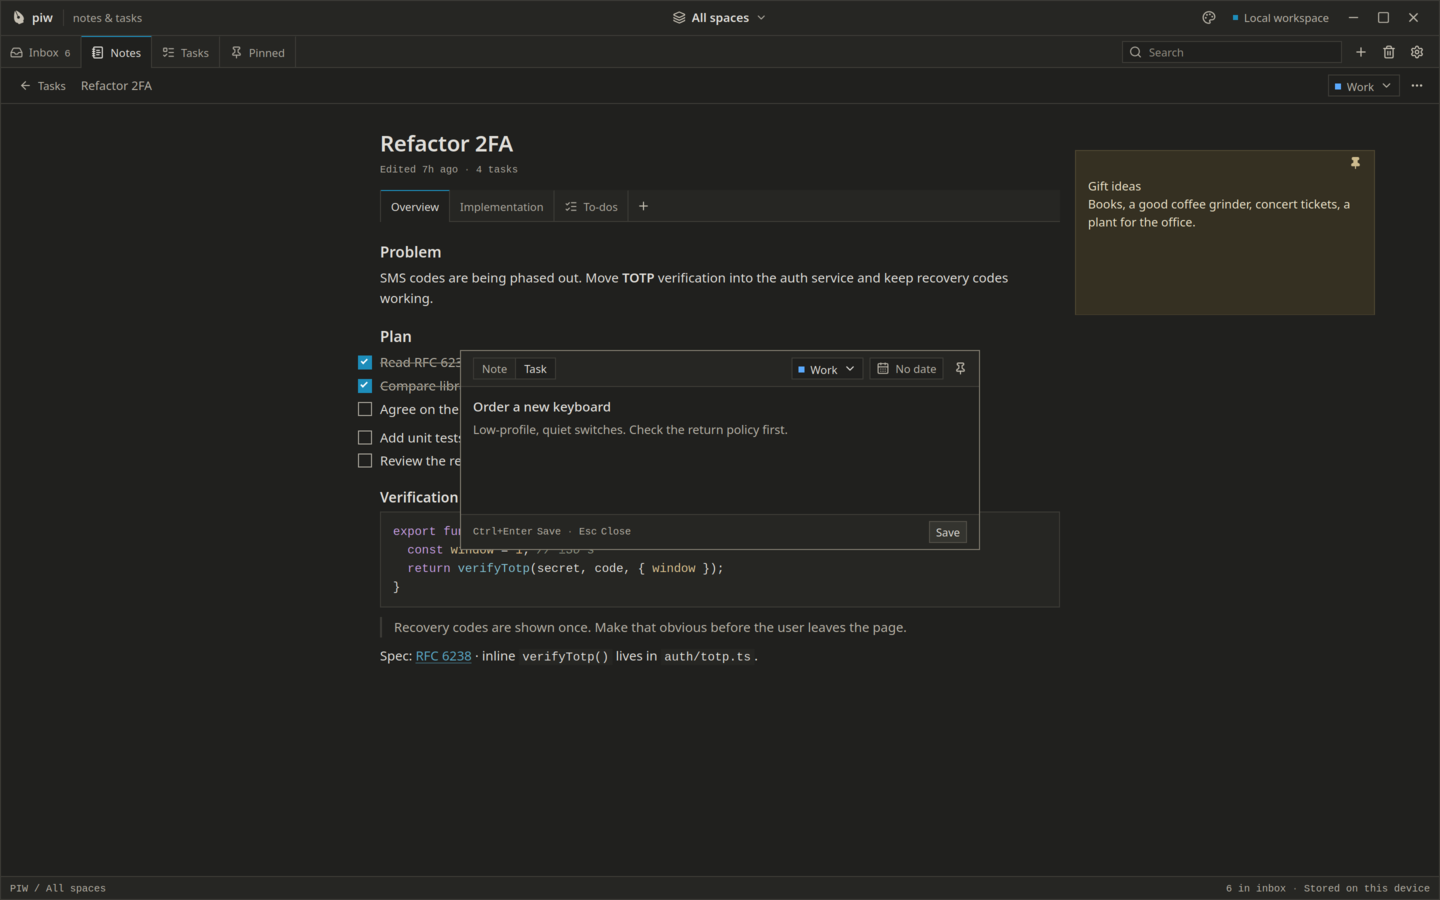
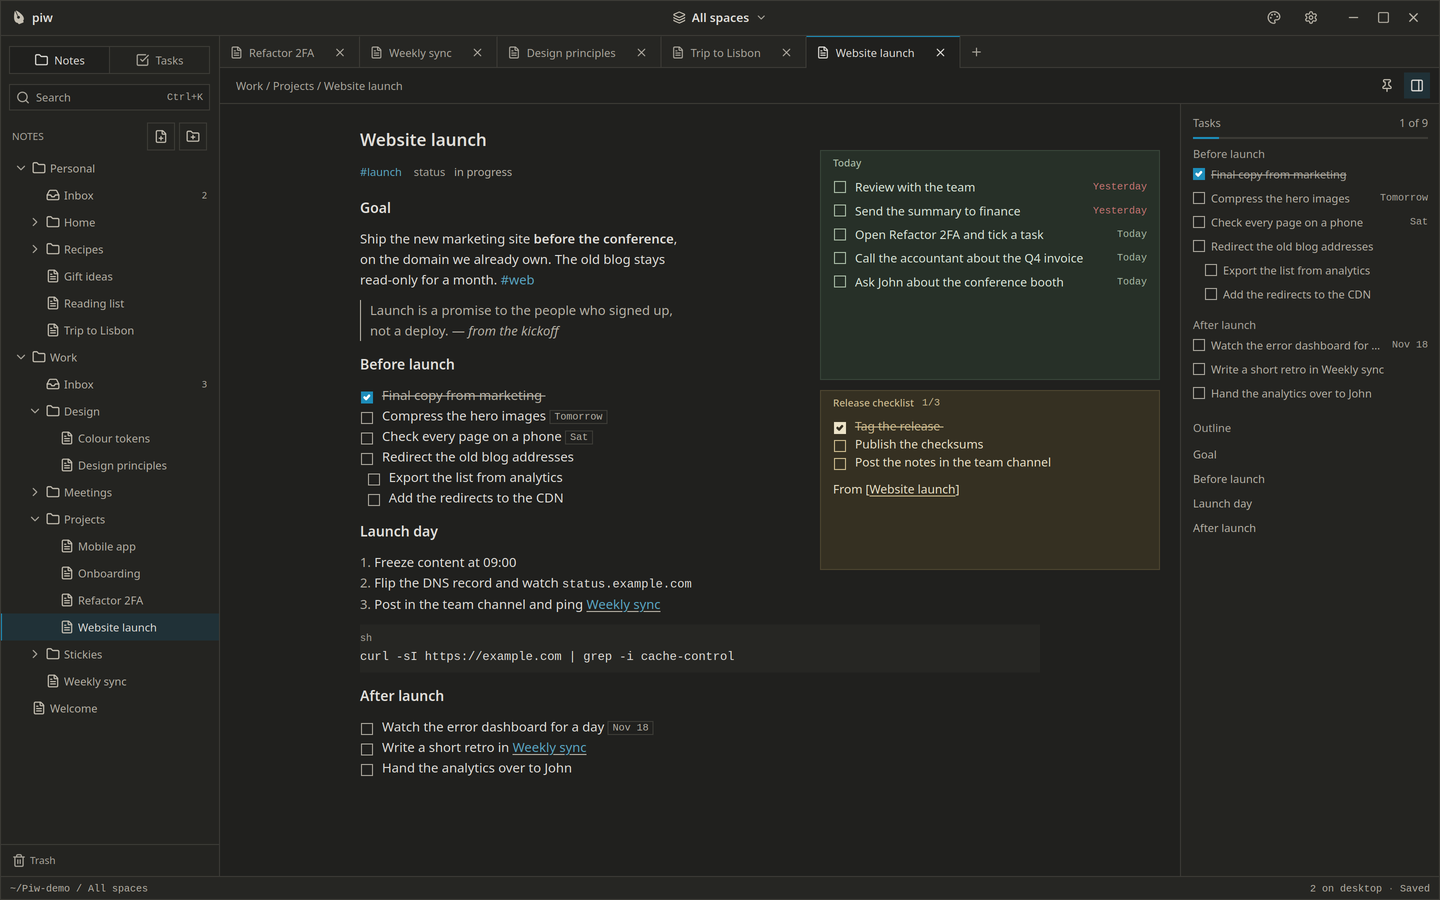
chore: improve product descriptions and features from piw

diff --git a/src/data/product-details.ts b/src/data/product-details.ts
@@ -173,85 +173,89 @@ export const productDetails: Record<'zap' | 'bud' | 'piw', ProductDetails> = {
   },
   piw: {
     summary:
-      'A local desktop workspace for notes, documents, and tasks, backed by one SQLite database. Quick Capture and sticky windows share the same records as the main workspace.',
+      'A local desktop app for notes and tasks, kept as plain Markdown files in a folder you choose. Quick Capture and sticky notes work on the same files as the main window.',
     features: [
       {
-        title: 'Quick Capture and notes',
-        description: 'Capture a note or task from another app with a global shortcut, tray action, or CLI flag.',
+        title: 'A vault of Markdown notes',
+        description: 'Notes are .md files in your vault: ~/Piw by default, or any folder you pick in Settings → Data.',
         capabilities: [
-          'The popup closes only after saving succeeds; capture drafts persist across accidental closes.',
-          'Write Markdown-friendly notes, use a split list/editor layout, add tags, and archive finished notes.',
-          'The --quick-note and --quick-task flags open capture in the already running app.'
+          'Edit the files in any other app; Piw follows external changes through a file watcher.',
+          'The top-level folders are spaces. The space filter in the title bar narrows the tree, search, and tasks to one of them.',
+          'Notes, task views, Trash, and Settings open as tabs, and the open tabs are remembered.'
         ]
       },
       {
-        title: 'Documents and linked tasks',
-        description: 'Convert a note into a tabbed document while preserving its identity.',
+        title: 'One live editor',
+        description: 'A single live Markdown editor shows headings, emphasis, code, quotes, and lists as you type.',
         capabilities: [
-          'Content tabs store rich text, code blocks, and checklists; Tasks tabs are live filtered task views.',
-          'Convert a line into a task with Ctrl/Command + T. Completion updates all views of the same task.',
-          'Tasks support one level of subtasks, due dates, manual ordering, and Today, Upcoming, All, and Completed views.'
+          'Markdown markers appear only on the line you are editing.',
+          'Link notes with [[Note]] and tag them with #tag. Renaming a note updates the links to it.',
+          'Front matter is kept byte for byte; Piw reads its tags and never adds front matter on its own.'
         ]
       },
       {
-        title: 'Spaces, search, and stickies',
-        description: 'Filter work by space and find content across notes, documents, and tasks.',
+        title: 'Tasks inside notes',
+        description: 'A task is a - [ ] line in any note. There is no separate task database to keep in sync.',
         capabilities: [
-          'Work and Personal are included; create additional spaces and triage new items from Inbox.',
-          'SQLite FTS5 indexes content with highlighted search matches.',
-          'Pin a note, task, or document task list as a sticky. Window position, size, and on-top preference are remembered where supported.'
+          'Type @today, @tomorrow, @friday, or a date to set a due date. Dates show as chips and stay plain text in the note.',
+          'A panel beside each note lists its tasks by heading, with progress, due dates, and the note’s outline.',
+          'Today (with Overdue), Upcoming, and All collect tasks across every note or one space. Ticking a task there edits its line in the note.'
         ]
       },
       {
-        title: 'Storage and concurrent edits',
-        description: 'The Rust core owns writes to piw.sqlite3 in the application-data directory.',
+        title: 'Quick Capture and stickies',
+        description:
+          'Capture from any app with a global shortcut, the tray menu, or the --quick-note and --quick-task flags.',
         capabilities: [
-          'SQLite uses WAL, synchronous=FULL, foreign keys, and transactional versioned migrations. Upgrades create a database backup first.',
-          'Debounced autosaves check an expected revision. A stale text save reports a conflict instead of overwriting a newer edit.',
-          'Change events refresh affected queries across windows; each task remains one record regardless of how many views show it.'
+          'A captured note or task is appended to the chosen space’s Inbox.md. The popup closes only after saving, and drafts survive an accidental close.',
+          'Pin a note or a task view to your desktop as a sticky, each in its own colour, kept on top or hidden. Position and size are remembered.',
+          'Create sticky from selection turns selected text into a new note, linked back to the original, and pins it.'
         ]
       },
       {
-        title: 'Backup and export',
-        description: 'Settings → Data shows the database path and provides separate backup and export actions.',
+        title: 'Safe writes and search',
+        description: 'The Rust core writes every file atomically and never overwrites edits it has not seen.',
         capabilities: [
-          'Backup uses VACUUM INTO to create a consistent SQLite copy while the app runs.',
-          'Export writes Markdown notes and document tabs, JSON and CSV tasks, plus canonical data.json and a versioned manifest.',
-          'Export creates a new folder without overwriting files and skips Trash. Exports are not a database restore mechanism.'
+          'Each write carries the hash of the content it was based on. If the file changed in the meantime, the write is refused as a conflict.',
+          'Deleted notes and folders move to the vault’s Trash and can be restored. Piw never deletes anything outside it on its own.',
+          'Search every note with highlighted matches, from a rebuildable SQLite FTS5 index kept outside the vault.'
         ]
       },
       {
-        title: 'Privacy and window boundaries',
-        description: 'No account, cloud, telemetry, or network access is required or built into the app.',
+        title: 'Privacy and Piw 0.1',
+        description: 'No account, cloud, telemetry, or network requests. Back up or sync the vault like any folder.',
         capabilities: [
-          'Each native window has scoped capabilities. Sticky windows can access commands for their own item only.',
-          'The Rust layer validates export paths and opens native file dialogs; pasted rich content is rebuilt from the editor schema.',
-          'Notes use soft deletion with Trash and undo. The SQLite database is not encrypted at rest.'
+          'Each native window has scoped capabilities; a sticky window can reach only its own note or view. Vault paths are validated in Rust.',
+          'Notes, documents, sections, and tasks from a Piw 0.1 database are imported into the vault on first start. The old database is left untouched.',
+          'The vault is plain text and not encrypted. Device or full-disk encryption protects data at rest.'
         ]
       }
     ],
     runtime: [
-      ['Application', 'Tauri 2, React, TypeScript, and Rust; local SQLite with FTS5.'],
+      ['Application', 'Tauri 2, React, TypeScript, and Rust; CodeMirror for the live Markdown editor.'],
       [
         'Data location',
-        'piw.sqlite3 in the OS app-data directory; inspect the path in Settings → Data. PIW_DATA_DIR can select another directory.'
+        'Notes live in the vault (~/Piw by default). Settings, sticky positions, and the search index live in the OS app-data directory; Settings → Data shows both.'
       ],
       [
         'Window model',
-        'Main workspace, Quick Capture popup, and separate sticky windows, with changes synchronized locally.'
+        'Main window, Quick Capture popup, and separate sticky windows, all reading and writing the same vault.'
       ]
     ],
     shortcuts: [
       ['Ctrl + Shift + Space / ⌘ + Shift + Space', 'Open Quick Capture (configurable)'],
       ['Ctrl / ⌘ + Enter', 'Save the captured note or task'],
-      ['Ctrl / ⌘ + K', 'Search notes, documents, and tasks'],
-      ['Ctrl / ⌘ + T', 'Convert a document line into a task']
+      ['Ctrl / ⌘ + K', 'Search every note'],
+      ['Ctrl / ⌘ + N', 'Create a note'],
+      ['Ctrl / ⌘ + D', 'Set a task’s due date'],
+      ['Ctrl / ⌘ + Shift + P', 'Pin the note to your desktop'],
+      ['Ctrl / ⌘ + Shift + S', 'Create a sticky from the selection']
     ],
     limitations: [
       'Pre-release. Verified daily on Linux with KDE Plasma; Windows and macOS build in CI but have not been tested by hand. GNOME and X11 are untested.',
       'On Wayland, Piw defaults to XWayland for sticky positioning and always-on-top behavior. Native Wayland does not provide those sticky features.',
-      'There is no in-app restore yet. Restoring a SQLite backup requires quitting Piw and replacing the database as described in the repository documentation.',
-      'The database is not encrypted. Device or full-disk encryption provides protection for data at rest.'
+      'A note renamed outside Piw loses its sticky, because the file watcher sees a delete and a create.',
+      'Published builds are not signed. macOS Gatekeeper and Windows SmartScreen ask for approval on first open.'
     ]
   }
 }

diff --git a/src/data/products.ts b/src/data/products.ts
@@ -56,18 +56,24 @@ export const products = [
     color: '#efc794',
     headline: 'Small thoughts.\nRoom to grow.',
     description:
-      'Catch a thought before it disappears. Turn it into a note, a task, or something bigger. Everything stays on your computer.',
+      'Catch a thought before it disappears. Keep it as plain Markdown, with its tasks close by. Everything stays in a folder on your computer.',
     short: 'A home for the things on your mind.',
     features: [
-      ['Catch it in the moment.', 'Open Quick Capture from another app and save a note or task in seconds.'],
       [
-        'Let your ideas grow.',
-        'Start with a Markdown-friendly note, then grow it into a document with rich text, code blocks, and checklists.'
+        'Catch it in the moment.',
+        'Open Quick Capture from another app and drop a note or task into your Inbox in seconds.'
       ],
-      ['Keep the next step close.', 'Plan tasks with subtasks and due dates, or pin a sticky to your desktop.'],
       [
-        'Yours, locally.',
-        'Notes, documents, and tasks live in a local SQLite file. No account, cloud, or telemetry. Export Markdown, JSON, and CSV.'
+        'Plain Markdown. Your files.',
+        'Notes are .md files in a folder you choose, readable by any editor. Link, tag, and organise them in folders.'
+      ],
+      [
+        'Tasks where they belong.',
+        'A task is a checkbox line in any note. Give it a due date with @tomorrow, then see Today and Upcoming across every note.'
+      ],
+      [
+        'Keep the next step close.',
+        'Pin a note or a task list to your desktop as a sticky, in its own colour. No account, cloud, or telemetry.'
       ]
     ]
   }
